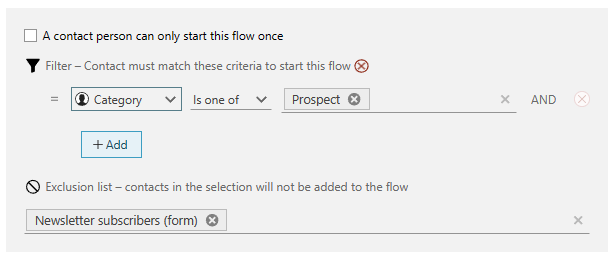
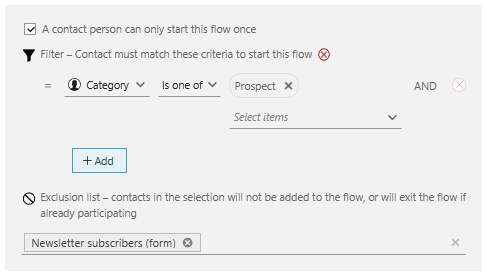
#1179 update trigger texts

diff --git a/docs/en/marketing/flows/learn/step-settings.md b/docs/en/marketing/flows/learn/step-settings.md
@@ -4,7 +4,7 @@ title: Step settings
 description: Overview of settings for the various flow steps.
 keywords: flow, automation, step, step setting, step field
 author: Bergfrid Dias, Trude Lien Smedbråten
-so.date: 04.30.2024
+so.date: 05.15.2024
 so.version: 10.3.5
 so.topic: reference
 language: en
@@ -103,8 +103,8 @@ Participants reaching the finish step has reached the end of the flow. Participa
 | Title | A short descriptive label. |
 | Split based on | The data/behavior to differentiate on. |
 | Branch name | A descriptive name on the branch, indicating which participants are moving down which branch. |
-| Everyone else | Participants who match no criteria get status "drop out". |
-| Exit flow | Whether dropped-out participants should leave the flow. If true, you may add them to another flow or to a static selection after exit. If false, you can add more steps to this branch. |
+| Everyone else | The branch for handling participants who do not meet the conditions of any of the other branches. |
+| Exit flow | Determines if participants ending up in the everyone-else branch should drop out. If true, you may add them to another flow or to a static selection after exit. If false, you can add more steps to this branch. |
 
 The remaining fields for specifying branch settings depend on what the split is based on.
 
@@ -113,8 +113,8 @@ The remaining fields for specifying branch settings depend on what the split is 
 | Setting | Description |
 |---|---|
 | A person can only start this flow once | Whether the a contact can be re-enrolled in this flow. |
-| Filter | A set of criteria that must be met before a suggested contact starts a flow. |
-| Exclusion list | A static selection of persons that should not start the flow. |
+| Filter | A set of criteria that must be met for a suggested contact to be allowed into the flow. Only checked once. |
+| Exclusion list | A static selection of persons who will not be added to the flow, or will exit the flow if already participating. |
 
 ## Update contact
 

diff --git a/docs/en/marketing/flows/learn/create.md b/docs/en/marketing/flows/learn/create.md
@@ -110,10 +110,10 @@ The **Trigger** step is automatically added as the starting point for any flow. 
 
 ### Add contact filter (optional)
 
-**Filters** are additional rules applied to all suggested participants (automatically and manually added). Use the contact filter to select specific contacts for your flow. For example, set the filter to *contact category = prospect* to trigger a flow only for prospects, not existing customers, who fill out a form on your website. This allows you to tailor content to different user groups.
+**Filters** are additional rules applied to all suggested participants (automatically and manually added). Use the contact filter to select specific contacts for your flow. For example, set the filter to *contact category = prospect* to allow only prospects into the flow, not existing customers, who fill out a form on your website. This allows you to tailor content to different user groups.
 
 > [!NOTE]
-> Filters apply only when **identifying flow participants**. In an ongoing flow, contacts may be removed if they fulfill the success criteria.
+> Filters apply only when **identifying new flow participants**. Any modifications made to the filter afterward do not impact participants already enrolled.
 
 1. Select the contact field you want to filter on.
 1. [Select values for the criterion][13] in the various fields on the line (similar to in the Find screen).

diff --git a/docs/en/marketing/flows/learn/view-statistics.md b/docs/en/marketing/flows/learn/view-statistics.md
@@ -4,7 +4,7 @@ title: View statistics for flow
 description: View statistics for flow
 keywords: Marketing
 author: Bergfrid Dias, Trude Lien Smedbråten
-so.date: 04.30.2024
+so.date: 05.15.2024
 so.version: 10.3.5
 so.topic: howto
 language: en
@@ -28,11 +28,11 @@ To view statistics about your flow, go to the **Flows** tab and click the flow i
 
 * **Summary**: Essential information about the flow and some key metrics
 
-  * **Trigger:**
-  * **Success criteria:** what the user want to achieve by this automation
-  * **Enrolled:** Total number of added participants, all statuses
-  * **In progress:** Total number of participants with status = active
-  * **Completed:** Total number of participants with status = Finished / Finished with success
+  * **Trigger:** The flow's starting point defining WHEN a person is suggested as a participant.
+  * **Success criteria:** What the user wants to achieve by this automation.
+  * **Enrolled:** Total number of added participants, all statuses.
+  * **In progress:** Total number of participants with status = active.
+  * **Completed:** Total number of participants with status = Finished / Finished with success.
   * **Success rate:** Percentage of all participants with status Finished with success.
 
   **Essential info:** status (Not running/Running/Pause), owner, visible for (associate/group/all), last updated, description
